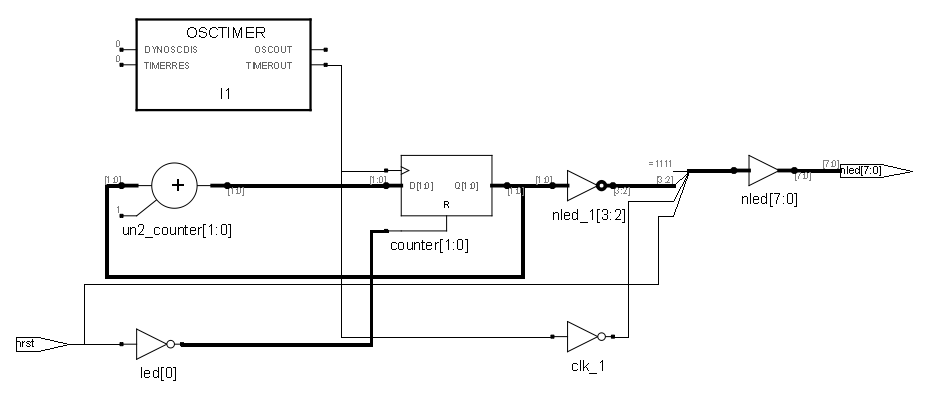
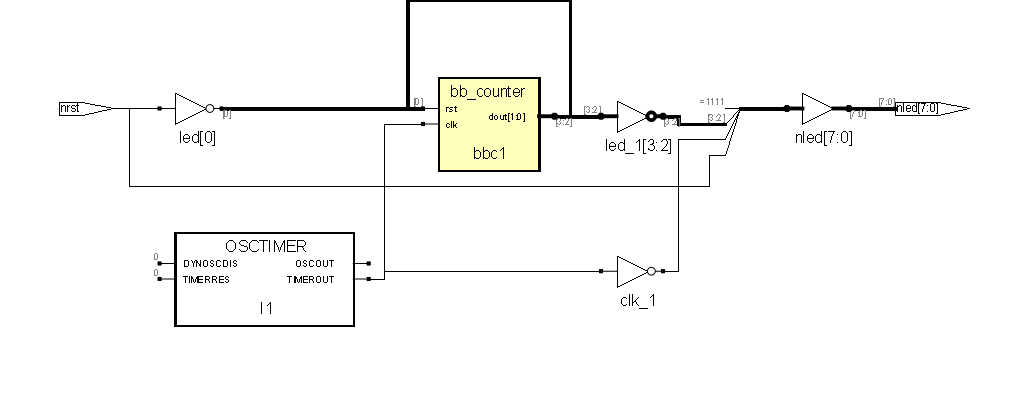
Using module for counter

diff --git a/bb_learn_rpt.html b/bb_learn_rpt.html
@@ -21,7 +21,7 @@ Tools->Fitter Report File Format...
 <BR>
 Project Name         :  bb_learn
 Project Path         :  C:\projects\ispMach-learn-verilog
-Project Fitted on    :  Thu Jul 26 19:25:16 2018
+Project Fitted on    :  Thu Jul 26 19:53:39 2018
 
 Device               :  M4256_96
 Package              :  144
